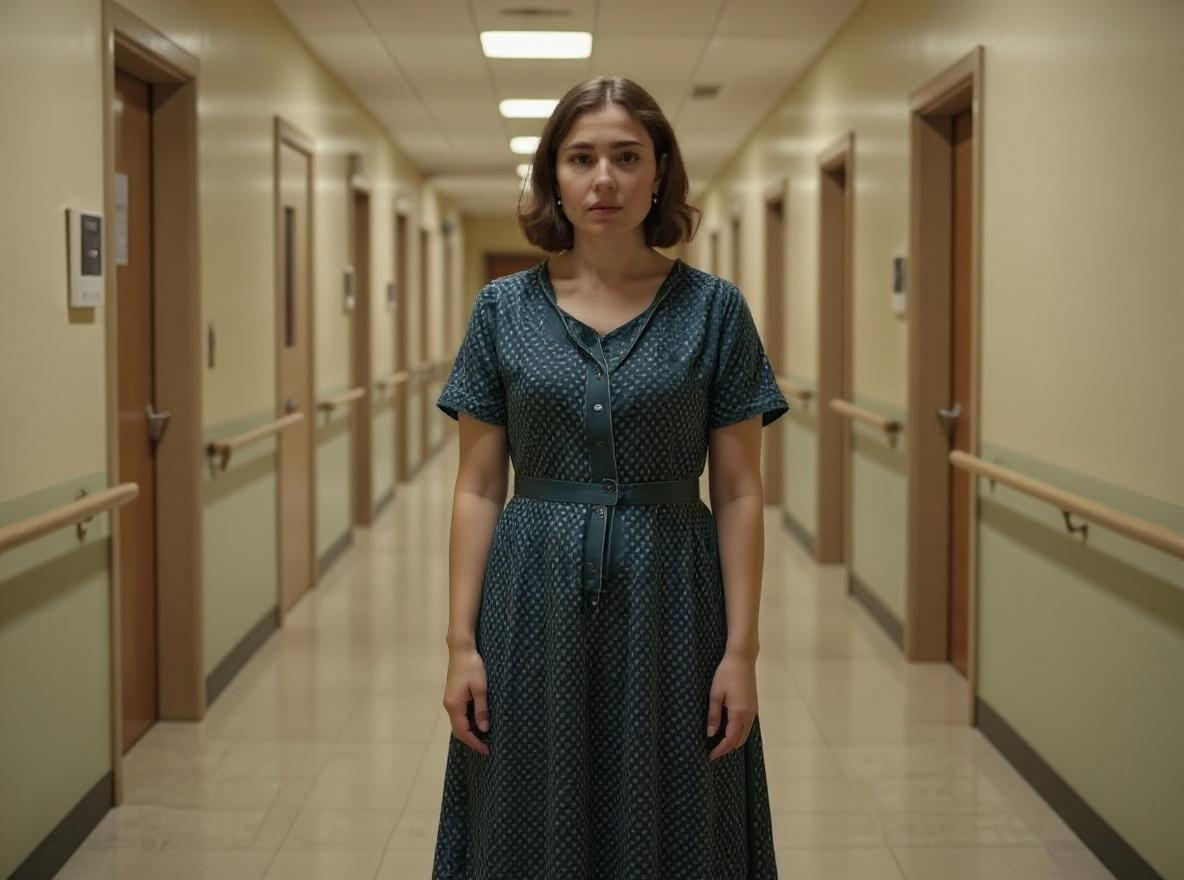
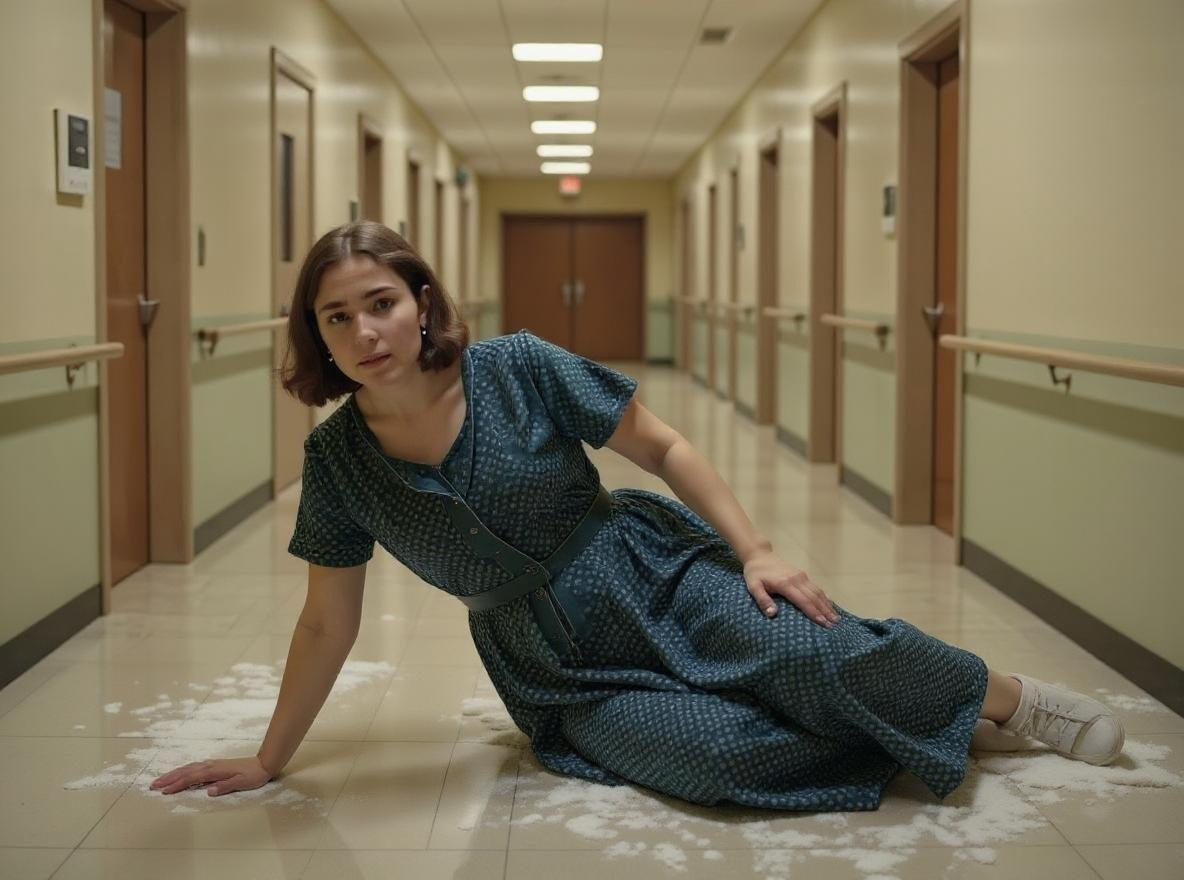
fixed a few pictures

diff --git a/7e71ecbb7830fd69dc78ba1369a452129b88e980fdbb6d63285fbb8f912f/costa/multimedia/generated_images.html b/7e71ecbb7830fd69dc78ba1369a452129b88e980fdbb6d63285fbb8f912f/costa/multimedia/generated_images.html
@@ -1,0 +1,35 @@
+<html><head>
+<meta charset='utf-8'>
+<title>Generated Images</title>
+</head><body>
+<h1>Generated Images</h1>
+<div style='margin-bottom:20px;'>
+<img src='images/costa_122_edited.jpg' alt='Generated Image' style='max-width:600px; display:block;'><br>
+Prompt: <a href='images/costa_122_edited.prompt.txt' target='_blank'>remove white strips around womans hair</a><br>
+Original Generated Image URL: <a href='https://api.together.ai/shrt/MRykcX2BsMLUkUlk' target='_blank'>https://api.together.ai/shrt/MRykcX2BsMLUkUlk</a>
+</div>
+<div style='margin-bottom:20px;'>
+<img src='images/costa_133_edited.jpg' alt='Generated Image' style='max-width:600px; display:block;'><br>
+Prompt: <a href='images/costa_133_edited.prompt.txt' target='_blank'>the girl falled on the flour due to a pain in her back leg</a><br>
+Original Generated Image URL: <a href='https://api.together.ai/shrt/Klp6iZipUqch8DgY' target='_blank'>https://api.together.ai/shrt/Klp6iZipUqch8DgY</a>
+</div>
+<div style='margin-bottom:20px;'>
+<img src='images/costa_129_edited.jpg' alt='Generated Image' style='max-width:600px; display:block;'><br>
+Prompt: <a href='images/costa_129_edited.prompt.txt' target='_blank'>remove white spots on the floor</a><br>
+Original Generated Image URL: <a href='https://api.together.ai/shrt/GH5xaQmPtO52h4UN' target='_blank'>https://api.together.ai/shrt/GH5xaQmPtO52h4UN</a>
+</div>
+<div style='margin-bottom:20px;'>
+<img src='images/costa_157_edited.jpg' alt='Generated Image' style='max-width:600px; display:block;'><br>
+Prompt: <a href='images/costa_157_edited.prompt.txt' target='_blank'>reduce number of people and make sure that every one remaining whear non formal clothes from 1920</a><br>
+Original Generated Image URL: <a href='https://api.together.ai/shrt/hQexfkBa8cScNal6' target='_blank'>https://api.together.ai/shrt/hQexfkBa8cScNal6</a>
+</div>
+<div style='margin-bottom:20px;'>
+<img src='images/costa_163_edited.jpg' alt='Generated Image' style='max-width:600px; display:block;'><br>
+Prompt: <a href='images/costa_163_edited.prompt.txt' target='_blank'>remove heart from the image</a><br>
+Original Generated Image URL: <a href='https://api.together.ai/shrt/PKG0R45aM7uQO4bD' target='_blank'>https://api.together.ai/shrt/PKG0R45aM7uQO4bD</a>
+</div>
+<div style='margin-bottom:20px;'>
+<img src='images/costa_185_edited.jpg' alt='Generated Image' style='max-width:600px; display:block;'><br>
+Prompt: <a href='images/costa_185_edited.prompt.txt' target='_blank'>the hands of the boy are stretching forward for a hug. he is still crying</a><br>
+Original Generated Image URL: <a href='https://api.together.ai/shrt/NfDLHTlNjIc3kgE4' target='_blank'>https://api.together.ai/shrt/NfDLHTlNjIc3kgE4</a>
+</div>
